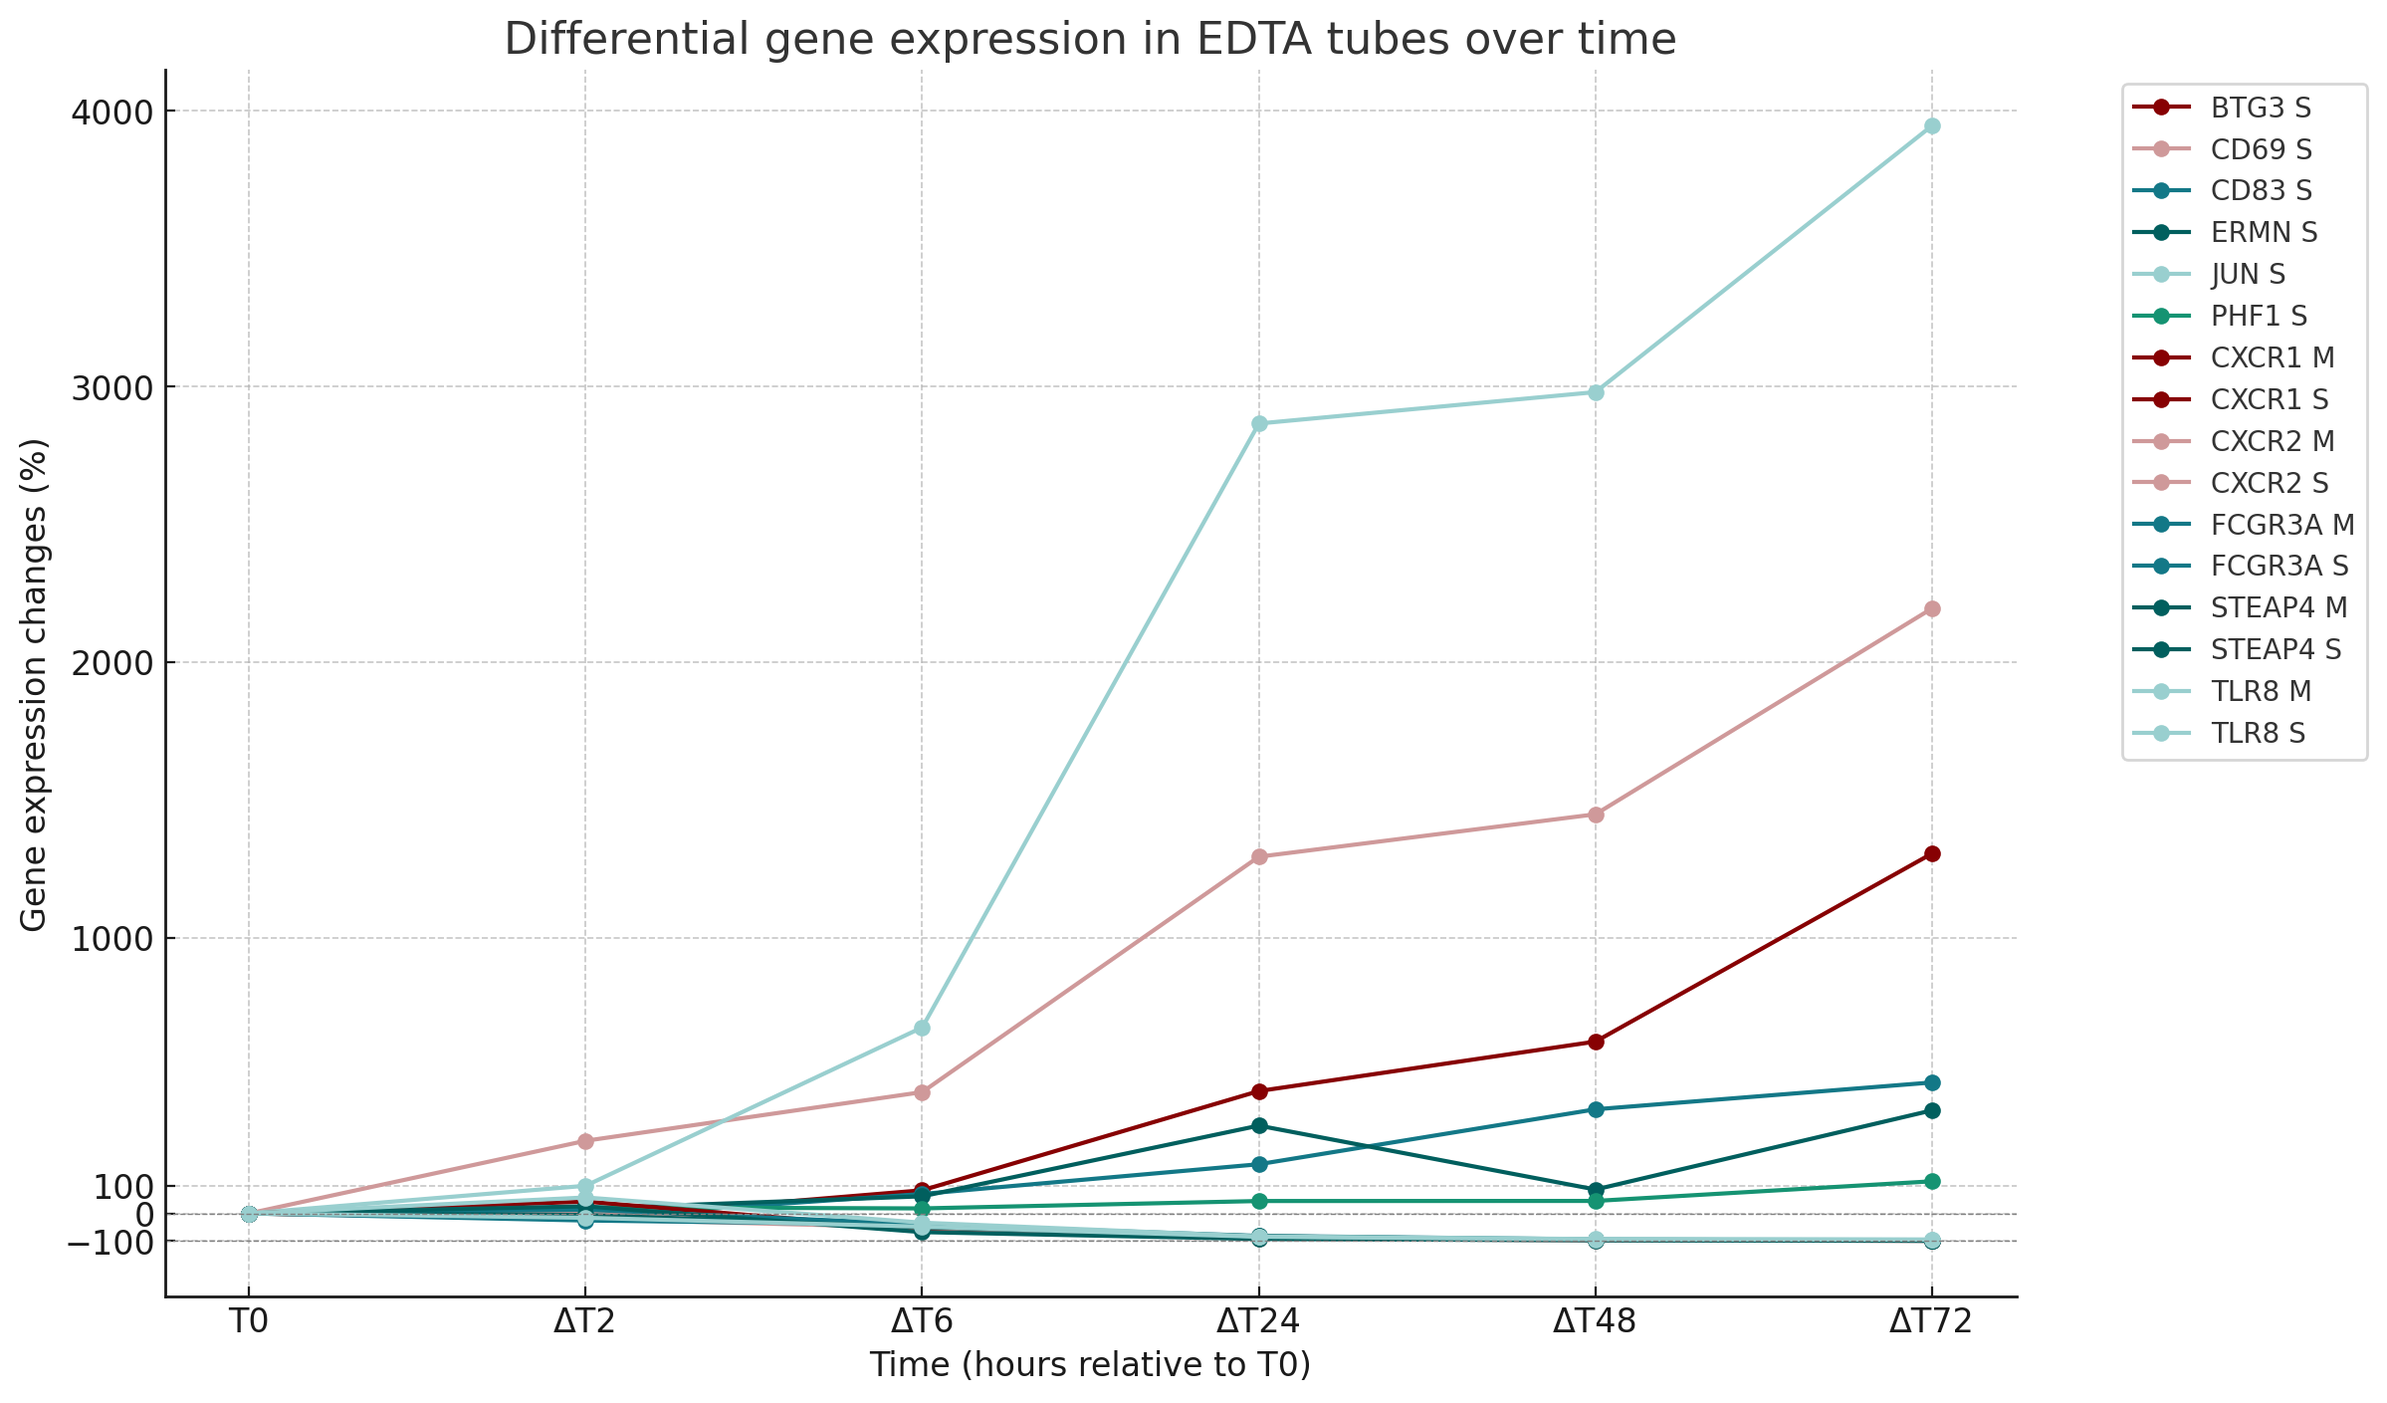
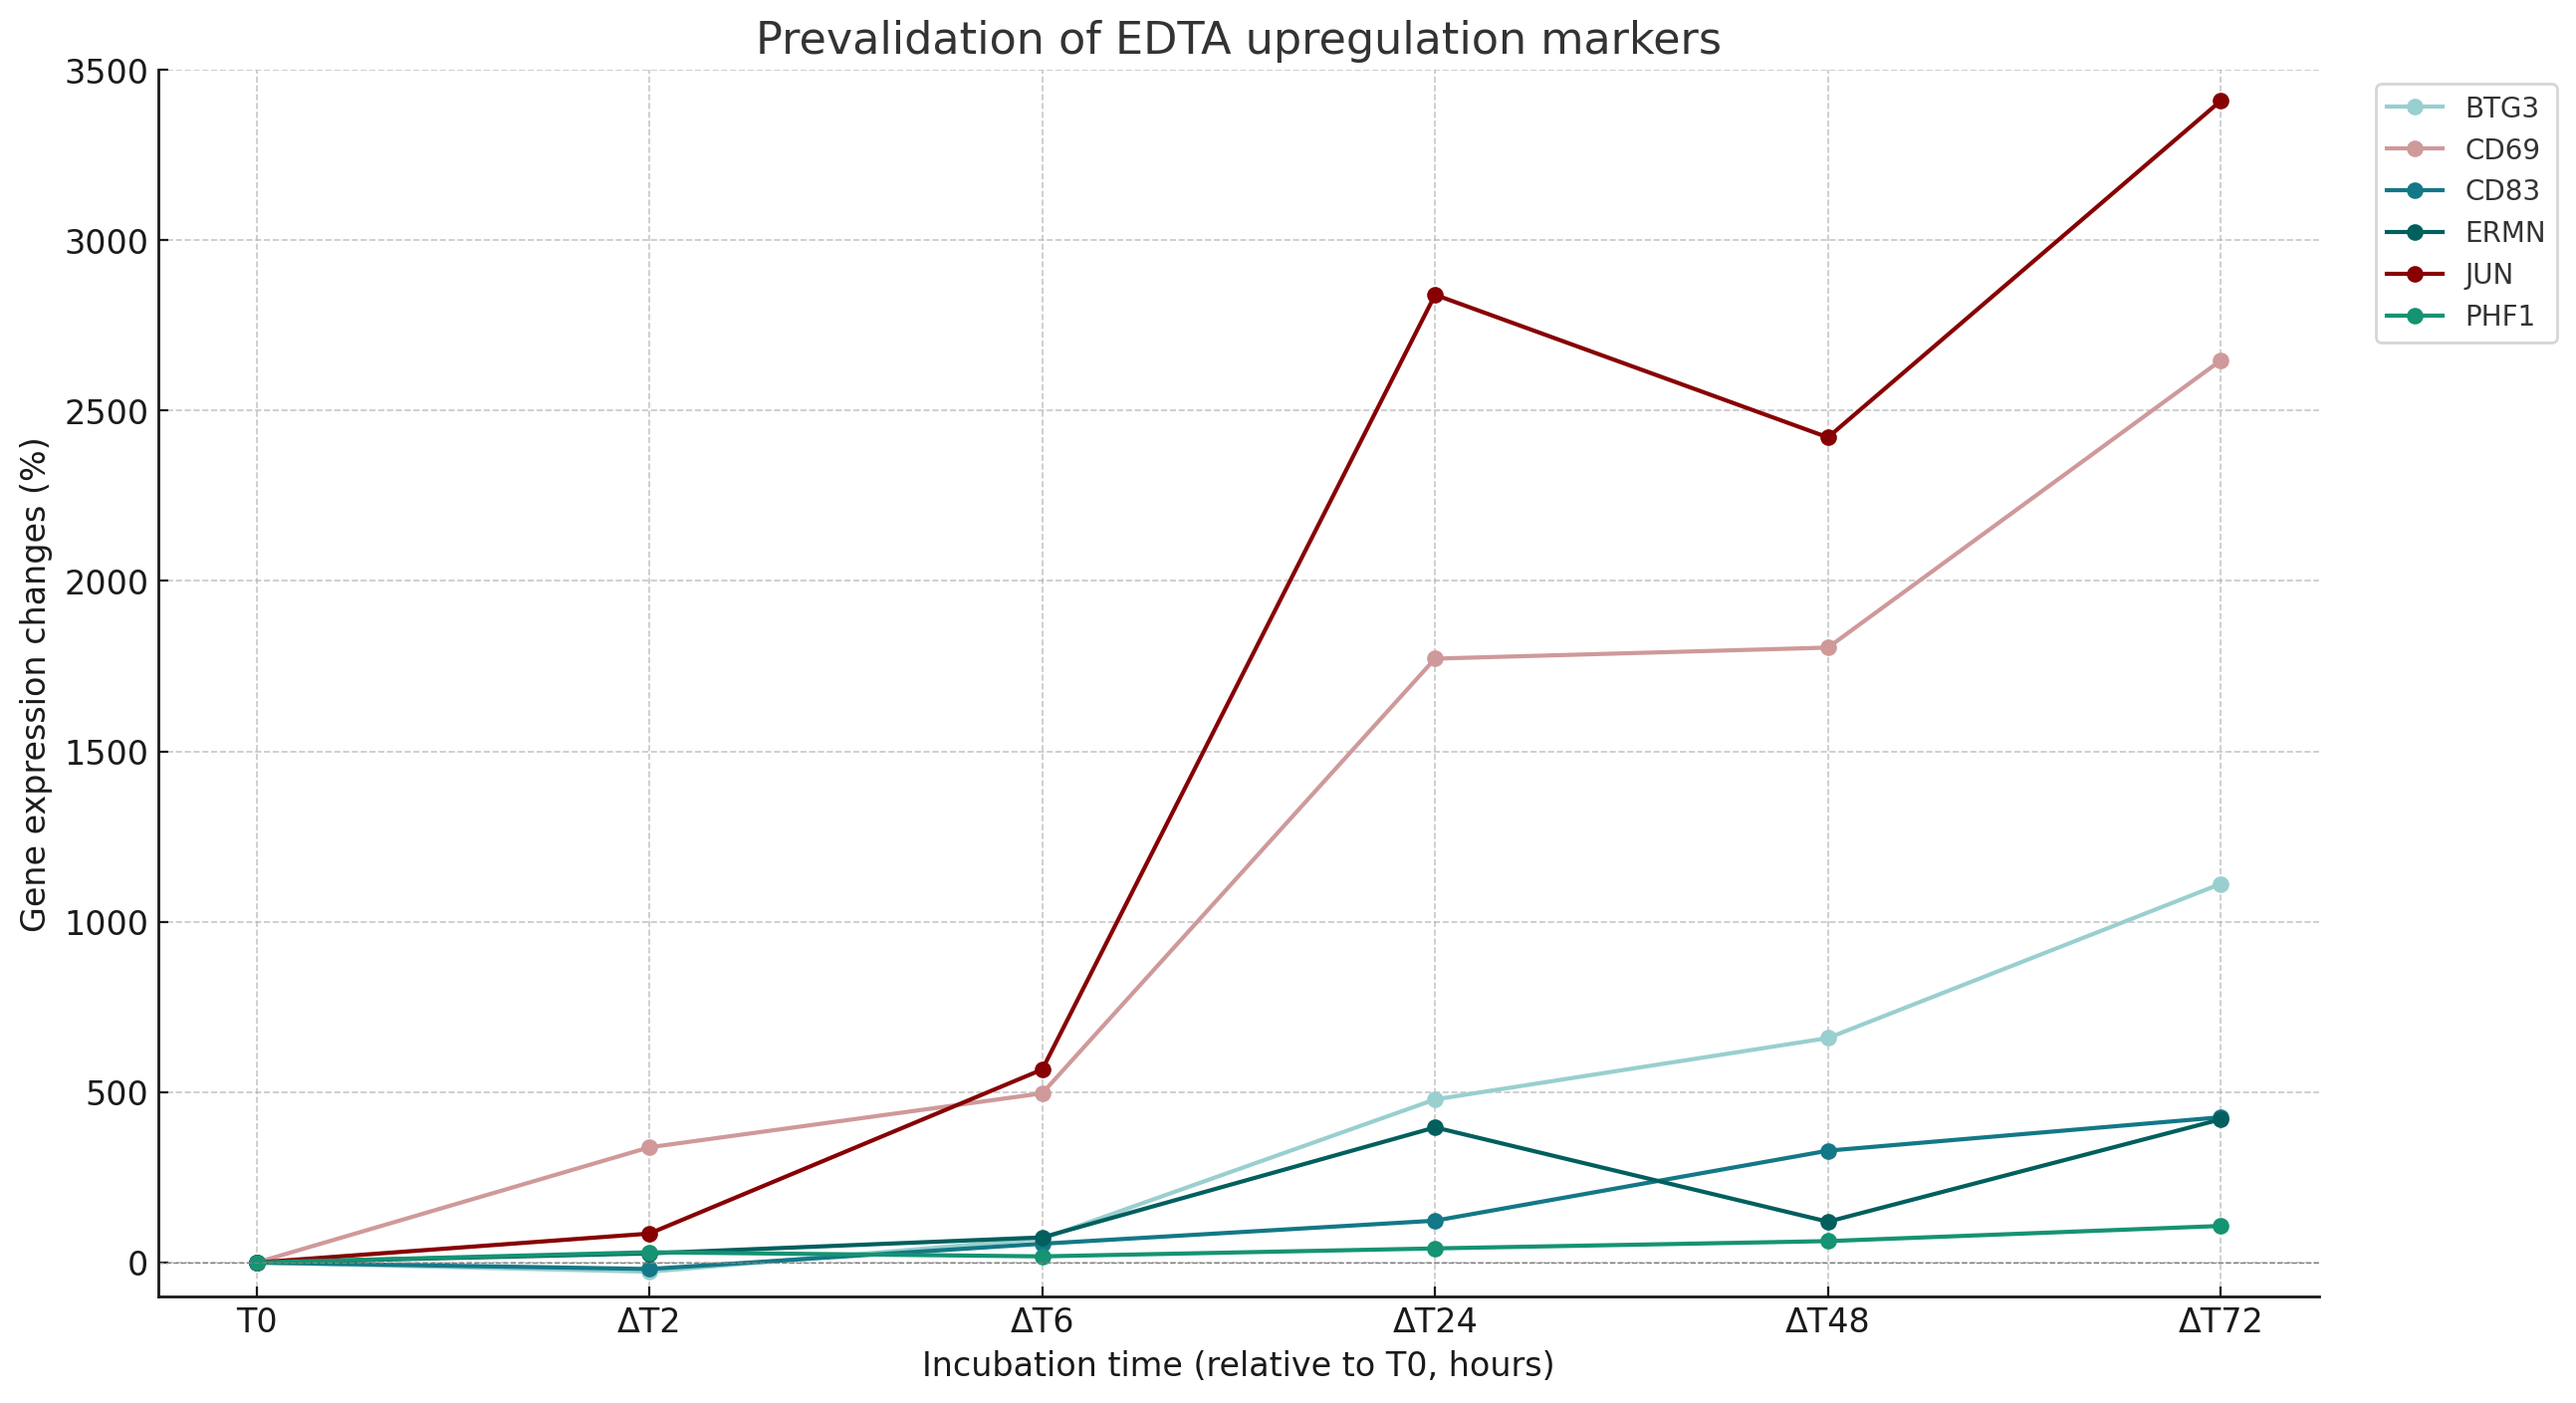
Figure 2 a 3 nahrazeny, jsem s nimi spokojena, jsou finální

diff --git a/main.tex b/main.tex
@@ -75,28 +75,28 @@ The corresponding author is responsible for submitting a \href{http://www.nature
 \caption{Study design.}
 \label{fig:figure1}
 \end{figure}
-% Figure1 ještě prověřit, jestli je vše updatované, pro EDTA beru pouze S.
+% Figure1 ještě prověřit, jestli je vše updatované, pro EDTA beru pouze S.Předělat všechny grafy na medián.
 
 \begin{figure}[ht]
     \centering
     \includegraphics[width=\linewidth]{figure2}
-    \caption{Gene expression changes of EDTA candidate markers measured over time.}
+    \caption{EDTA pre-validation: Time-dependent gene expression changes of EDTA upregulation markers.}
     \label{fig:figure2}
     \end{figure}
-% Figure2, změnit popisek na ose x a vynechat všechny downregulované M. Zrušit nadpis grafu a do x ještě přidat EDTA tubes
+% Figure2, změnit popisek na ose x a vynechat všechny downregulované M. Zrušit nadpis grafu a do x ještě přidat EDTA tubes. Vymazat všechna S z názvu.
 
 \begin{figure}[ht]
     \centering
     \includegraphics[width=\linewidth]{figure3}
-    \caption{RNA integrity number (RIN) measured while blood was incubated in EDTA tubes at RT.}
+    \caption{Time-depended degradation of both RNA and gene expression levels.}
     \label{fig:figure3}
     \end{figure}
-% Figure3. Asi se nedělají nadpisy grafů, dát do osy x, že je to in EDTA tubes, přepsat popisek obrázku
+% Figure3. Je to medián.
 
 \begin{figure}[ht]
     \centering
     \includegraphics[width=\linewidth]{figure4}
-    \caption{SCI.}
+    \caption{EDTA validation.SCI.}
     \label{fig:figure4}
     \end{figure}
 % Figure4  Tady asi celkově předělat graf a barvy. Sjednotit popisky na x ose.
